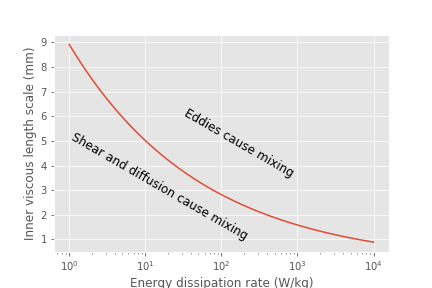
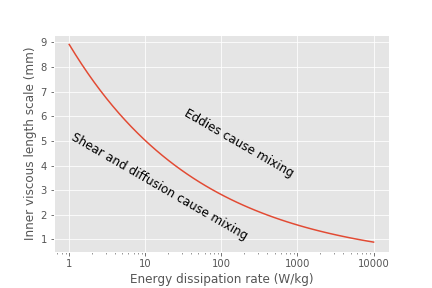
edits to rapid mix notes

Changed region(s): [[0.3009, 0.875, 0.7222, 1.0], [0.8426, 0.875, 0.9028, 0.9375], [0.1204, 0.9062, 0.1806, 0.9375]]

diff --git a/AguaClara Water Treatment Plant Design/Chapter 3_Rapid Mix/Rapid Mix.md b/AguaClara Water Treatment Plant Design/Chapter 3_Rapid Mix/Rapid Mix.md
@@ -1,14 +1,93 @@
+
+<!-- TOC depthFrom:1 depthTo:6 withLinks:1 updateOnSave:1 orderedList:0 -->
+
+	- [Conventional Rapid Mix](#conventional-rapid-mix)
+- [Coagulant nanoparticle application](#coagulant-nanoparticle-application)
+	- [Transport steps](#transport-steps)
+	- [Length and time scales for each of the processes](#length-and-time-scales-for-each-of-the-processes)
+	- [Mixing length scale and transport mechanisms](#mixing-length-scale-and-transport-mechanisms)
+		- [Length scales of coagulant nanoparticles and clay](#length-scales-of-coagulant-nanoparticles-and-clay)
+		- [Diffusion and Shear Transport Coagulant Nanoparticles to Clay](#diffusion-and-shear-transport-coagulant-nanoparticles-to-clay)
+		- [Diffusion band thickness](#diffusion-band-thickness)
+	- [Collision Rates](#collision-rates)
+		- [Collision Rate and Particle Removal](#collision-rate-and-particle-removal)
+		- [Integrate the coagulant transport model](#integrate-the-coagulant-transport-model)
+		- [Energy tradeoff for coagulant transport](#energy-tradeoff-for-coagulant-transport)
+	- [Coagulant attachment mechanism](#coagulant-attachment-mechanism)
+	- [Design for Mixing](#design-for-mixing)
+		- [Jet Mixing](#jet-mixing)
+		- [Orifice Diameter to obtain Target Mixing](#orifice-diameter-to-obtain-target-mixing)
+		- [Rapid Mix Head Loss](#rapid-mix-head-loss)
+
+<!-- /TOC -->
+
+## Conventional Rapid Mix
+
+Conventional rapid mix units use mechanical or potential energy to generate intense turbulence to begin the mixing process. Conventional design is based on the use of G (an average velocity gradient) as a design parameter. We don’t yet know what the design objective is for rapid mix and thus it isn’t clear which parameters matter. We hypothesize that both velocity gradients that cause deformation of the fluid and time for molecular diffusion are required to ultimately transport coagulant nanoparticles to the surfaces of clay particles.
+
+The velocity gradient can be obtained from the rate at which mechanical energy is being dissipated and converted to heat by viscosity.
+
+$$ \epsilon = G^2 \nu $$
+
+where $\epsilon$ is the energy dissipation rate, $G$ is the velocity gradient, and $\nu$ is the kinematic viscosity of water.
+We can estimate the power input required to create a target energy dissipation rate for a conventional design by noting that power is simple the energy dissipation rate times the mass of water in the rapid mix unit.
+
+$$P = \epsilon \rlap{--}V \rho $$
+
+$$ P = G^2 \nu \rlap{--}V \rho $$
+
+We can relate reactor volume to a hydraulic residence time, $\theta$, and volumetric flow rate, Q.
+
+$$ P = \rho G^2 \nu Q \theta $$
+
+This equation is perfectly useful for estimating electrical motor sizing requirements for mechanical rapid mix units. For gravity powered hydraulic rapid mix units it would be more intuitive to use the change in water surface elevation, $\Delta h$ instead of power input.
+
+$$P = \rho g Q \Delta h$$
+
+Combining the two equations we obtain.
+
+$$  \Delta h =   \frac{G^2 \nu \theta}{g} $$
+
+Typical values for residence time and average velocity gradient are given below.
+
+| Residence Time (s) | Velocity gradient G (1/s) | Energy dissipation rate (W/kg)  | Equivalent height (m)* |
+| - | - | - | - |
+| 0.5 | 4000 | 16 | 0.8 |
+| 10 - 20 | 1500 | 2.25 | 2.3 - 4.6 |
+| 20 - 30 | 950 | 0.9 | 1.8 - 2.8 |
+| 30 - 40 | 850 | 0.72 | 2.2 - 2.9 |
+| 40 - 130 | 750 | 0.56 | 2.3 - 7.5 |
+From Environmental Engineering: A Design Approach by Sincero and Sincero. 1996. page 267.
 ```python
-# %% importing
+""" importing """
 from aide_design.play import*
 from aguaclara_research.play import*
 import aguaclara_research.floc_model as fm
 import matplotlib.pyplot as plt
 from matplotlib.ticker import FormatStrFormatter
 imagepath = 'AguaClara Water Treatment Plant Design/Chapter 3_Rapid Mix/Images/'
-```
+Temperature = 15*u.degC
+pc.viscosity_kinematic(Temperature)
+Mix_HRT = np.array([0.5,15,25,35,85])*u.s
+Mix_G = np.array([4000,1500,950,850,750])/u.s
+Mix_CP = np.multiply(Mix_HRT, np.sqrt(Mix_G))
+Mix_Gt = np.multiply(Mix_HRT, Mix_G)
+Mix_EDR = (Mix_G**2*pc.viscosity_kinematic(Temperature))
 
-# Nanoparticle application
+fig, ax = plt.subplots()
+ax.plot(Mix_G.to(1/u.s),Mix_HRT.to(u.s),'o')
+ax.yaxis.set_major_formatter(FormatStrFormatter('%.f'))
+ax.xaxis.set_major_formatter(FormatStrFormatter('%.f'))
+ax.set(xlabel='Velocity gradient (Hz)', ylabel='Residence time (s)')
+fig.savefig(imagepath+'Mechanical_RM_Gt')
+plt.show()
+
+```
+<img src="https://github.com/AguaClara/CEE4540_Master/raw/master/AguaClara%20Water%20Treatment%20Plant%20Design/Chapter%203_Rapid%20Mix/Images/Mechanical_RM_Gt.png" width="400">
+
+Figure x. Mechanical rapid mix units use a wide range of velocity gradients and residence times.
+
+# Coagulant nanoparticle application
 Rapid mix is where aggregation of both suspended particles and dissolved substances begins.
 
 Nanoparticle application: The process of adding a sticky solid phase material (adhesive nanoparticles) that attaches to raw water particles as well as to some dissolved species (the topic of these notes)
@@ -27,6 +106,16 @@ Nanoparticle application includes multiple steps that must occur before the raw 
 
 Figure x.
 
+## Transport steps
+* Turbulence
+  * Large scale eddies
+  * Inner viscous length scale
+* Shear-diffusion transport
+  * Estimate diffusion time scale
+  * Einstein's diffusion equation
+
+
+## Length and time scales for each of the processes
 Let's begin by describing the coagulant injection for a 60 L/s plant. We will use a linear flow orifice meter with 20 cm of head loss.
 
 ```python
@@ -34,8 +123,8 @@ Q_plant = 60 * u.L/u.s
 HL_LFOM = 20 * u.cm
 Pi_LFOM_safety = 1.2
 SDR_LFOM = 26
-from aide_design.unit_process_design.prefab import lfom_prefab_functional as lfom
-ND_LFOM = lfom.nom_diam_lfom_pipe(Q_plant,HL_LFOM,Pi_LFOM_safety,SDR_LFOM)
+from aide_design.unit_process_design import lfom as lfom
+ND_LFOM = lfom.nom_diam_lfom_pipe(Q_plant,HL_LFOM)
 print(ND_LFOM, '(',ND_LFOM.to(u.cm), ')')
 
 pipe.ID_SDR(ND_LFOM,SDR_LFOM)
@@ -70,63 +159,7 @@ print(V_Coag_injection)
 D_Coag_injection_min = pc.diam_circle(Q_PACl_max/V_Coag_injection)
 print(D_Coag_injection_min.to(u.mm))
 ```   
-## Conventional Rapid Mix
 
-Conventional rapid mix units use mechanical or potential energy to generate intense turbulence to begin the mixing process. Conventional design is based on the use of G (an average velocity gradient) as a design parameter. We don’t yet know what the design objective is for rapid mix and thus it isn’t clear which parameters matter. We hypothesize that both velocity gradients that cause deformation of the fluid and time for molecular diffusion are required to ultimately transport coagulant nanoparticles to the surfaces of clay particles.
-
-The velocity gradient can be obtained from the rate at which mechanical energy is being dissipated and converted to heat by viscosity.
-
-$$ \epsilon = G^2 \nu $$
-
-where $\epsilon$ is the energy dissipation rate, $G$ is the velocity gradient, and $\nu$ is the kinematic viscosity of water.
-We can estimate the power input required to create a target energy dissipation rate for a conventional design by noting that power is simple the energy dissipation rate times the mass of water in the rapid mix unit.
-
-$$ P = \epsilon \rlap{--}V \rho $$
-
-$$ P = G^2 \nu \rlap{--}V \rho $$
-
-We can relate reactor volume to a hydraulic residence time, $\theta$, and volumetric flow rate, Q.
-
-$$ P = \rho G^2 \nu Q \theta $$
-
-This equation is perfectly useful for estimating electrical motor sizing requirements for mechanical rapid mix units. For gravity powered hydraulic rapid mix units it would be more intuitive to use the change in water surface elevation, $\Delta h$ instead of power input.
-
-$$P = \rho g Q \Delta h$$
-
-Combining the two equations we obtain.
-
-$$  \Delta h =   \frac{G^2 \nu \theta}{g} $$
-
-Typical values for residence time and average velocity gradient are given below.
-
-| Residence Time (s) | Velocity gradient G (1/s) | Energy dissipation rate (W/kg)  | Equivalent height (m)* |
-| - | - | - | - |
-| 0.5 | 4000 | 16 | 0.8 |
-| 10 - 20 | 1500 | 2.25 | 2.3 - 4.6 |
-| 20 - 30 | 950 | 0.9 | 1.8 - 2.8 |
-| 30 - 40 | 850 | 0.72 | 2.2 - 2.9 |
-| 40 - 130 | 750 | 0.56 | 2.3 - 7.5 |
-From Environmental Engineering: A Design Approach by Sincero and Sincero. 1996. page 267.
-```python
-Temperature = 15*u.degC
-pc.viscosity_kinematic(Temperature)
-Mix_HRT = np.array([0.5,15,25,35,85])*u.s
-Mix_G = np.array([4000,1500,950,850,750])/u.s
-Mix_CP = np.multiply(Mix_HRT, np.sqrt(Mix_G))
-Mix_Gt = np.multiply(Mix_HRT, Mix_G)
-Mix_EDR = (Mix_G**2*pc.viscosity_kinematic(Temperature))
-print(Mix_EDR.magnitude,'W/kg')
-plt.plot(Mix_G.to(1/u.s),Mix_HRT.to(u.s),'o')
-plt.xlabel('Velocity Gradient (Hz)')
-plt.ylabel('Residence time (s)')
-plt.savefig(imagepath+'Mechanical_RM_Gt')
-
-plt.show()
-
-```
-<img src="https://github.com/AguaClara/CEE4540_Master/raw/master/AguaClara%20Water%20Treatment%20Plant%20Design/Chapter%203_Rapid%20Mix/Images/Mechanical_RM_Gt.png" width="400">
-
-Figure x. Mechanical rapid mix units use a wide range of velocity gradients and residence times.
 
 ## Mixing length scale and transport mechanisms
 
@@ -155,20 +188,16 @@ Temperature = 20*u.degC
 fm.RATIO_KOLMOGOROV
 Inner_viscous = fm.RATIO_KOLMOGOROV * fm.eta_kolmogorov(EDR, Temperature)
 
-
-
-plt.plot(EDR.to(u.mW/u.kg),Inner_viscous.to(u.mm))
-plt.xscale('log')
-plt.ylabel('Inner viscous length scale (mm)')
-plt.xlabel('Energy dissipation rate (W/kg)')
-plt.text(30, 6, 'Eddies cause mixing', fontsize=12,rotation=-30)
-plt.text(1, 5, 'Shear and diffusion cause mixing', fontsize=12,rotation=-30)
-plt.savefig(imagepath+'Inner_viscous_vs_EDR')
-
+fig, ax = plt.subplots()
+ax.semilogx(EDR.to(u.mW/u.kg),Inner_viscous.to(u.mm))
+ax.yaxis.set_major_formatter(FormatStrFormatter('%.f'))
+ax.xaxis.set_major_formatter(FormatStrFormatter('%.f'))
+ax.set(xlabel='Energy dissipation rate (W/kg)', ylabel='Inner viscous length scale (mm)')
+ax.text(30, 6, 'Eddies cause mixing', fontsize=12,rotation=-30)
+ax.text(1, 5, 'Shear and diffusion cause mixing', fontsize=12,rotation=-30)
+fig.savefig(imagepath+'Inner_viscous_vs_EDR')
 plt.show()
 ```
-
-
 <img src="https://github.com/AguaClara/CEE4540_Master/raw/master/AguaClara%20Water%20Treatment%20Plant%20Design/Chapter%203_Rapid%20Mix/Images/Inner_viscous_vs_EDR.png" width="400">
 
 Figure x. Eddies can cause fluid mixing down to the scale of a few millimeters for energy dissipation rates used in rapid mix units and flocculators.
@@ -177,7 +206,7 @@ Figure x. Eddies can cause fluid mixing down to the scale of a few millimeters f
 
 The coagulant nanoparticles eventually will attach to clay particles. The clay particles have a diameter of approximately $5 \mu m$ and thus it is clear from the length scale in the figure above that turbulent eddies aren't able to transport all the way to attachment to clay.
 
-# Diffusion and Shear Transport Coagulant Nanoparticles to Clay
+### Diffusion and Shear Transport Coagulant Nanoparticles to Clay
 
 The time required for shear and diffusion to transport coagulant nanoparticles to clay has previously been assumed to be a rapid process. The
 
@@ -250,7 +279,7 @@ plt.show()
 <img src="https://github.com/AguaClara/CEE4540_Master/raw/master/AguaClara%20Water%20Treatment%20Plant%20Design/Chapter%203_Rapid%20Mix/Images/Diffusion_band_thickness.png" width="400">
 
 Figure x.
-### Collision Rates
+## Collision Rates
 $${\rlap{-} V_{\rm{Cleared}}} \approx \pi d_{Clay} L_{Diff_{NC}} v_r t$$
 
 $$t_c = \frac{\Lambda_{NC}^3}{\pi d_{Clay} L_{Diff_{NC} v_r}}$$
@@ -295,9 +324,9 @@ The time required for the coagulant to be transported to clay surfaces is strong
 Below we estimate the time required to achieve 80% attachment of nanoparticles in a 10 NTU clay suspension.
 
 ```python
-#I needed to attach units to material properties due to a bug in floc_model. This will need to be fixed when floc_model is updated.
+"""I needed to attach units to material properties due to a bug in floc_model. This will need to be fixed when floc_model is updated."""
 def Nano_coag_attach_time(pC_NC,C_clay,G,Temperature):
-  # We assume that 70% of nanoparticles attach in the average time for one collision.
+  """We assume that 70% of nanoparticles attach in the average time for one collision."""
   k_nano = 1-np.exp(-1)
   num=2.3*pC_NC*(fm.sep_dist_clay(C_clay,fm.Clay))**2
   den = np.pi * G* k_nano * fm.Clay.Diameter*u.m * L_Diff(Temperature,G)
@@ -306,7 +335,7 @@ def Nano_coag_attach_time(pC_NC,C_clay,G,Temperature):
 C_Al = 2 * u.mg/u.L
 C_clay = 10 * u.NTU
 pC_NC = -np.log10(1-0.8)
-# apply 80% of the coagulant nanoparticles to the clay
+"""apply 80% of the coagulant nanoparticles to the clay"""
 
 G = np.arange(50,5000,10)*u.Hz
 
@@ -317,16 +346,12 @@ for i in range(len(T_graph)):
 
 ax.semilogx(Mix_G.to(1/u.s),Mix_HRT.to(u.s),'o')
 ax.legend([*T_graph, "Conventional rapid mix"])
-# * is used to unpack T_graph so that units are preserved when
-# adding another legend item.
+"""* is used to unpack T_graph so that units are preserved when adding another legend item."""
 ax.yaxis.set_major_formatter(FormatStrFormatter('%.f'))
 ax.xaxis.set_major_formatter(FormatStrFormatter('%.f'))
 ax.set(xlabel='Velocity gradient (Hz)', ylabel='Nanoparticle attachment time (s)')
 fig.savefig(imagepath+'Coag_attach_time')
 plt.show()
-
-
-
 ```
 <img src="https://github.com/AguaClara/CEE4540_Master/raw/master/AguaClara%20Water%20Treatment%20Plant%20Design/Chapter%203_Rapid%20Mix/Images/Coag_attach_time.png" width="400">
 
@@ -349,9 +374,7 @@ ax.legend(T_graph)
 ax.yaxis.set_major_formatter(FormatStrFormatter('%.f'))
 ax.xaxis.set_major_formatter(FormatStrFormatter('%.f'))
 ax.set(xlabel='Velocity gradient (Hz)', ylabel='Head loss (cm)')
-
 fig.savefig(imagepath+'Coag_attach_head_loss')
-
 plt.show()
 
 ```
@@ -384,7 +407,7 @@ $$  \Delta h =  \frac{G^\frac{4}{3} \nu}{g} \frac{2.3p C_{NC} \, \Lambda_{Clay}^
 $$  G =  d_{Clay}\left(\frac{\pi k \,g\Delta h }{2.3p C_{NC} \, \Lambda_{Clay}^2 \nu} \right)^\frac{3}{4} \left( \frac{2k_B T }{3 \pi \,\mu  \, d_{NC} }\right)^\frac{1}{4}$$
 
 ```python
-#find G for target head loss
+"""find G for target head loss"""
 HL_nano_transport = np.linspace(10,100,10)*u.cm
 def G_max_head_loss(pC_NC,C_clay,HL_nano_transport,Temperature):
   k_nano = 1-np.exp(-1)
@@ -393,13 +416,13 @@ def G_max_head_loss(pC_NC,C_clay,HL_nano_transport,Temperature):
   num2 = 2 * u.boltzmann_constant * Temperature
   den2 = 3 * np.pi * pc.viscosity_dynamic(Temperature) * (fm.PACl.Diameter*u.m)
   return fm.Clay.Diameter*u.m*((((num/den)**(3) * (num2/den2)).to_base_units())**(1/4))
-# Note the use of to_base_units BEFORE raising to the fractional power.
-# This prevents a rounding error in the unit exponent.
+"""Note the use of to_base_units BEFORE raising to the fractional power.
+This prevents a rounding error in the unit exponent."""
 
 G_max = G_max_head_loss(pC_NC,C_clay,20*u.cm,Temperature)
 print(G_max)
 
-#The time required?
+"""The time required?"""
 Nano_attach_time = Nano_coag_attach_time(pC_NC,C_clay,G_max,Temperature)
 print(Nano_attach_time)
 print(G_max*Nano_attach_time)
@@ -409,7 +432,7 @@ According to the analysis above, the maximum velocity gradient that can be used 
 The analysis of the time required for shear and diffusion to transport the coagulant nanoparticles the last few millimeters suggests that it is this last step that requires the most time. Indeed, the time required for coagulant nanoparticle attachment to raw water particles is comparable to the time that will be required for the next step in the processs, flocculation.
 
 
-### Coagulant attachment mechanism
+## Coagulant attachment mechanism
 * Surface charge neutralization hypothesis
   * coagulant nanoparticles attach to each other
   *
@@ -417,11 +440,68 @@ The analysis of the time required for shear and diffusion to transport the coagu
   * Electronegativity reveals that the aluminum - oxygen bond is more polar than the hydrogen - oxygen bond
   * The bond between a coagulant nanoparticle and a clay surface can potentially be stronger than the bond between a water molecule and the clay surface.
 
+## Design for Mixing
+This is all about deforming the fluid.
+
+### Jet Mixing
+
+In both mixing for the application of coagulant nanoparticles and for flocculation we have the goal of deforming the fluid to
 
 
-### Transport steps
-* Einstein's diffusion equation
-* Estimate diffusion time scale
-* Kolmogorov length scale
-* Possibly introduce model for shear-diffusion transport of coagulant nanoparticles to clay
-* Provide estimates of the time scales for each of the processes
+Chemical Engineering Science, Vol. 50, No. 12, pp. 1877-1880, 1995
+THE INFLUENCE OF VISCOSITY ON MIXING IN JET REACTORS
+Jo BALDYGA, J. R. BOURNE* and R. V. GHOLAP
+Technisch-Chemisches Laboratorium, ETH-Zentrum, CH-8092 Zurich, Switzerland
+
+$$ \varepsilon_{Centerline} \cong \frac{50 D_{Jet}^3 V_{Jet}^3}{ \left( x - 2 D_{Jet} \right)^4}$$
+
+$$ \varepsilon_{Max} \cong \frac{\left( \frac{50}{\left( 5 \right)^4} \right) V_{Jet}^3}{D_{Jet}}$$
+
+$$ \varepsilon_{Max} \cong \frac{\left( \Pi_{RoundJet} V_{Jet} \right)^3}{D_{Jet}}$$
+
+$$\Pi_{RoundJet} \cong 0.5$$
+
+```python
+def Energy_dissipation_jet_centerline(D_jet,V_jet,x):
+  return (50 * D_jet**3*V_jet**3/(x-2*D_jet)**4).to_base_units()
+
+def Energy_dissipation_jet_max(D_jet,V_jet):
+  return (con.RATIO_JET_ROUND * V_jet)**3/D_jet
+
+V_jet = 1 * u.m/u.s
+D_jet = 0.1 * u.m
+EDR_max = Energy_dissipation_jet_max(D_jet,V_jet)
+x=np.linspace(7,20,24)*D_jet
+fig, ax = plt.subplots()
+ax.plot(x/D_jet,Energy_dissipation_jet_centerline(D_jet,V_jet,x))
+ax.set(xlabel='Jet diameters downstream', ylabel='Energy dissipation rate (W/kg)')
+fig.savefig(imagepath+'Jet_centerline_EDR')
+plt.show()
+```
+
+<img src="https://github.com/AguaClara/CEE4540_Master/raw/master/AguaClara%20Water%20Treatment%20Plant%20Design/Chapter%203_Rapid%20Mix/Images/Jet_centerline_EDR.png" width="400">
+### Orifice Diameter to obtain Target Mixing
+$$ A_{Orifice} \Pi_{vc} = A_{Jet}$$
+
+$$ D_{Orifice} \sqrt{\Pi_{vc}} = D_{Jet}$$
+
+$$ \varepsilon_{Max} \cong \frac{ \left( \Pi_{JetRound} \frac{4Q}{\pi D_{Jet}^2} \right)^3}{D_{Jet}}$$
+
+$$ D_{Orifice} \cong \left( \frac{4 Q \Pi_{JetRound}}{\varepsilon_{Max}^{\frac{1}{3}} \pi} \right)^{\frac{3}{7}} \frac{1}{\sqrt{\Pi_{vc} }}$$
+
+**Off-slide**
+$$\varepsilon_{Max} \cong  \frac{ \left( \Pi_{Jet} \frac{4 Q_{Jet}}{\pi} \right)^3 }{D_{Orifice}^7 \sqrt{\Pi_{vc}^7} }
+$$
+
+
+### Rapid Mix Head Loss
+$$ D_{Orifice} \cong \left( \frac{4 Q \Pi_{JetRound}}{\varepsilon_{Max}^{\frac{1}{3}} \pi} \right)^{\frac{3}{7}}$$
+
+$$V_{Jet} \cong \frac{\left( D_{Jet} \, \varepsilon_{Max} \right)^{\frac{1}{3}}}{\Pi_{JetRound}}$$
+
+$$h_e = \frac{ \left( D_{Jet} \, \varepsilon_{Max} \right)^{\frac{2}{3}}}{ 2g \Pi_{JetRound}^2}$$
+
+$$h_e = \frac{ \left( \frac{4 \Pi_{JetRound} Q \varepsilon_{Max}^2}{\pi} \right)^{\frac{2}{7}}}{2 g \Pi_{JetRound}^2}$$
+
+**Off-slide**
+$$Q = \frac{D_{Jet}^{\frac{7}{3}} \pi \varepsilon_{Max}^{\frac{1}{3}}}{4 \Pi_{Jet}}$$
